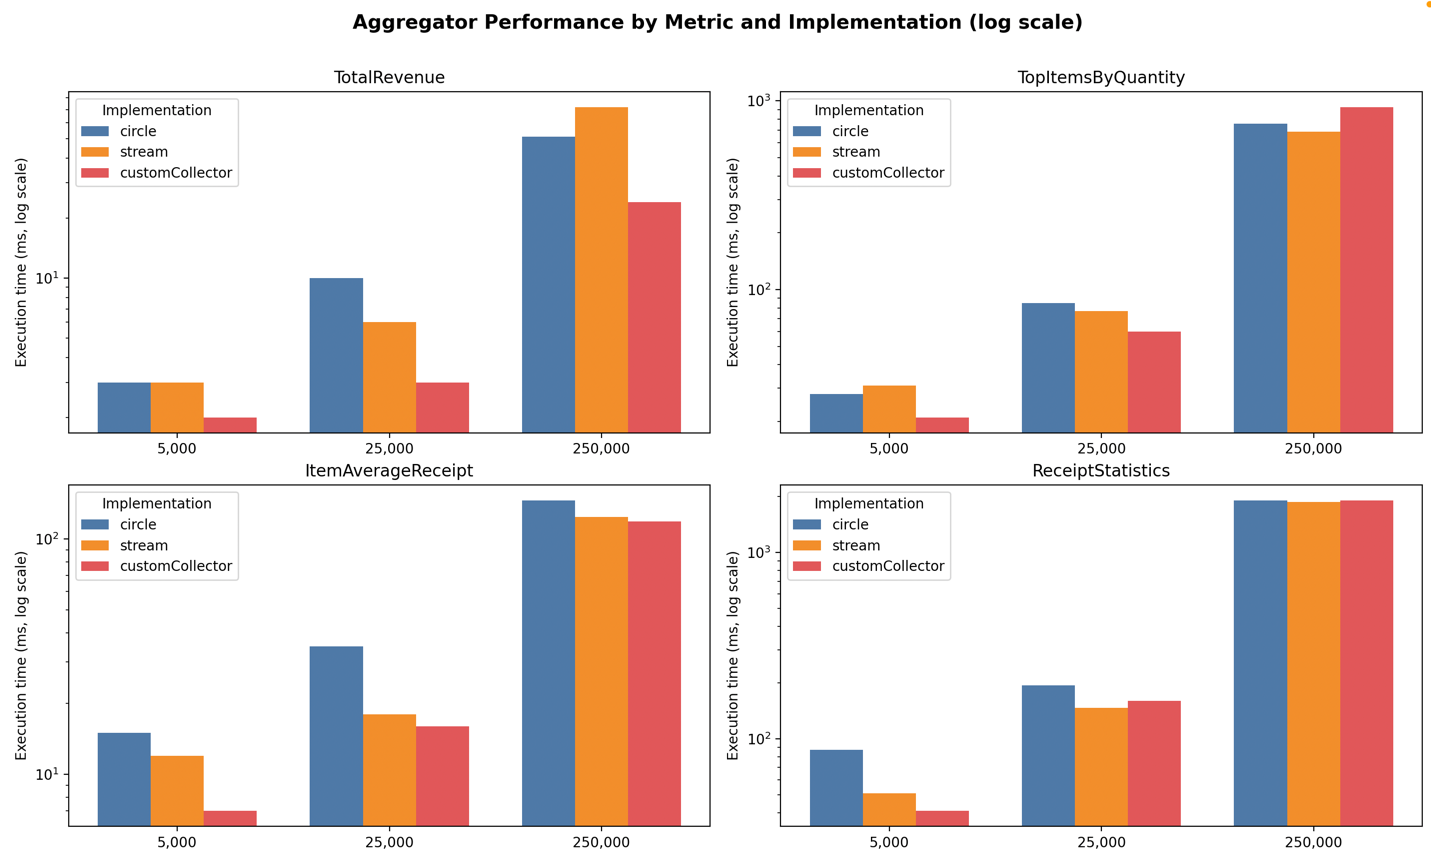
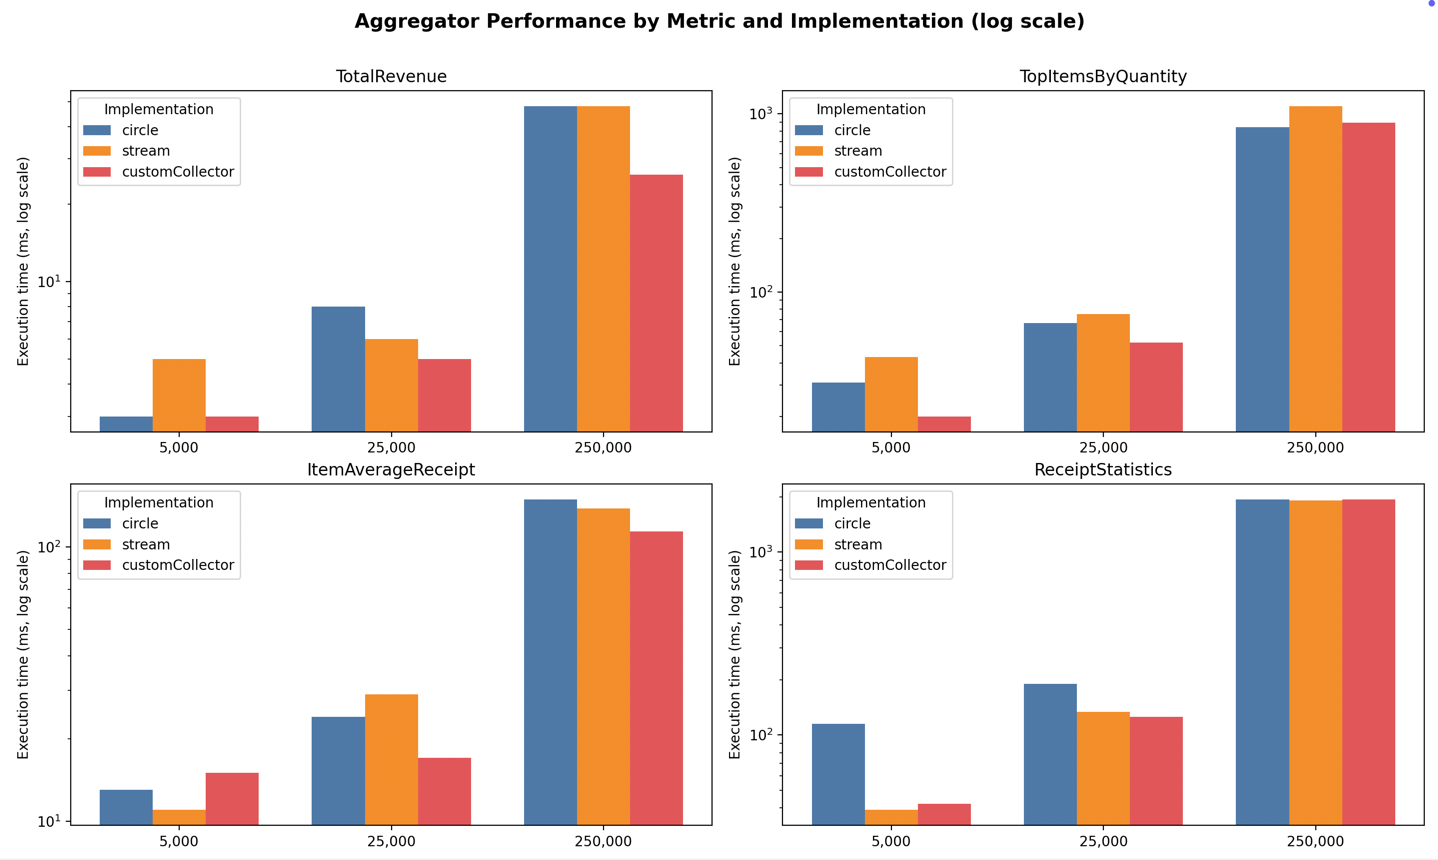
lab1 report

diff --git a/lab1/report/graph/graph.py b/lab1/report/graph/graph.py
@@ -1,88 +1,91 @@
+import subprocess
+import json
 import pandas as pd
 import matplotlib.pyplot as plt
-import numpy as np
-import os
 
-def load_data(csv_path=None):
+
+def run_java_benchmark():
     """
-    Загружает данные из CSV или запрашивает ввод вручную.
+    Запускает Java-бенчмарк и читает benchmark_results.json.
     """
-    if csv_path and os.path.exists(csv_path):
-        df = pd.read_csv(csv_path)
-        print(f"✅ Загружено {len(df)} строк из '{csv_path}'")
-    else:
-        print("CSV не найден. Введите данные вручную (пример ниже):")
-        print("Dataset Receipts Iterative Stream Custom")
-        print("Пример: Simple 5000 45 62 59")
-        print("Введите пустую строку для завершения.")
+    # print("▶ Запуск Java-бенчмарка...")
+    # subprocess.run(["java", "-cp", "/Users/Shared/Alexander/Education/reactive-java/lab1/target/classes", "/Users/Shared/Alexander/Education/reactive-java/lab1/src/main/java/rj/lab1/AggregationBenchmark.java"], check=True)
+    # print("✅ Java-бенчмарк завершён.")
 
-        rows = []
-        while True:
-            line = input("> ").strip()
-            if not line:
-                break
-            parts = line.split()
-            if len(parts) != 5:
-                print("Ошибка: нужно 5 значений.")
-                continue
-            dataset, receipts, iterative, stream, custom = parts
-            rows.append({
-                "Dataset": dataset,
-                "Receipts": int(receipts),
-                "Iterative": float(iterative),
-                "Stream": float(stream),
-                "Custom": float(custom),
-            })
-        df = pd.DataFrame(rows)
-
-    return df
+    with open("benchmark_results.json", "r", encoding="utf-8") as f:
+        data = json.load(f)
+    return data
 
 
-def plot_benchmarks_bar(df, save=False):
+def plot_aggregator_performance(data):
     """
-    Строит столбчатые диаграммы для каждого типа набора (Simple / Complex)
-    с логарифмической шкалой по оси Y.
+    Строит графики по результатам benchmark_results.json.
     """
-    datasets = df["Dataset"].unique()
+    # Преобразуем словарь в формат DataFrame
+    metrics = ["TotalRevenue.circleAggregate", "TotalRevenue.streamAggregate", "TotalRevenue.customCollectorAggregate",
+               "TopItemsByQuantity.circle", "TopItemsByQuantity.stream", "TopItemsByQuantity.collector",
+               "ItemAverageReceipt.circle", "ItemAverageReceipt.stream", "ItemAverageReceipt.collector",
+               "ReceiptStatistics.circle", "ReceiptStatistics.stream", "ReceiptStatistics.collector"]
 
-    for ds in datasets:
-        subset = df[df["Dataset"] == ds].sort_values("Receipts")
+    df = pd.DataFrame({
+        "Metric": metrics,
+        "5000": [data[m][0] for m in metrics],
+        "25000": [data[m][1] for m in metrics],
+        "250000": [data[m][2] for m in metrics]
+    })
 
-        x = np.arange(len(subset))
-        width = 0.25
+    # Группы метрик
+    groups = {
+        "TotalRevenue": ["TotalRevenue.circleAggregate", "TotalRevenue.streamAggregate", "TotalRevenue.customCollectorAggregate"],
+        "TopItemsByQuantity": ["TopItemsByQuantity.circle", "TopItemsByQuantity.stream", "TopItemsByQuantity.collector"],
+        "ItemAverageReceipt": ["ItemAverageReceipt.circle", "ItemAverageReceipt.stream", "ItemAverageReceipt.collector"],
+        "ReceiptStatistics": ["ReceiptStatistics.circle", "ReceiptStatistics.stream", "ReceiptStatistics.collector"],
+    }
 
-        fig, ax = plt.subplots(figsize=(8, 5))
-        bars1 = ax.bar(x - width, subset["Iterative"], width, label="Iterative")
-        bars2 = ax.bar(x, subset["Stream"], width, label="Stream")
-        bars3 = ax.bar(x + width, subset["Custom"], width, label="Custom collector")
+    # Цвета реализаций
+    implementations = {
+        "circle": "#4e79a7",
+        "stream": "#f28e2b",
+        "customCollector": "#e15759",
+    }
 
-        ax.set_xlabel("Receipts count")
-        ax.set_ylabel("Time (ms, log scale)")
-        ax.set_title(f"Benchmark: {ds} dataset (logarithmic scale, lower is better)")
+    bar_width = 0.25
 
-        ax.set_xticks(x)
-        ax.set_xticklabels([f"{int(v):,}".replace(",", " ") for v in subset["Receipts"]])
+    # Построение графиков
+    fig, axes = plt.subplots(2, 2, figsize=(14, 10))
+    axes = axes.flatten()
 
-        ax.set_yscale("log")  # ← вот ключевая строка!
-        ax.legend()
-        ax.grid(axis="y", linestyle="--", alpha=0.6, which="both")
+    for idx, (group_name, group_metrics) in enumerate(groups.items()):
+        sub_df = df[df["Metric"].isin(group_metrics)]
+        sub_df["Implementation"] = sub_df["Metric"].apply(
+            lambda x: "circle" if "circle" in x
+            else "stream" if "stream" in x
+            else "customCollector"
+        )
 
-        plt.tight_layout()
+        x = range(3)  # 3 размера: 5000, 25000, 250000
 
-        if save:
-            filename = f"{ds.lower()}_bar_log.png"
-            plt.savefig(filename, dpi=150)
-            print(f"💾 Сохранено: {filename}")
+        for i, impl in enumerate(["circle", "stream", "customCollector"]):
+            impl_vals = sub_df[sub_df["Implementation"] == impl][["5000", "25000", "250000"]].values.flatten()
+            axes[idx].bar([xj + (i - 1) * bar_width for xj in x],
+                          impl_vals,
+                          width=bar_width,
+                          color=implementations[impl],
+                          label=impl)
 
-        plt.show()
+        axes[idx].set_xticks(x)
+        axes[idx].set_xticklabels(["5,000", "25,000", "250,000"])
+        axes[idx].set_yscale("log")
+        axes[idx].set_title(group_name)
+        axes[idx].set_ylabel("Execution time (ms, log scale)")
+        axes[idx].legend(title="Implementation")
 
-
-def main():
-    csv_path = input("Введите путь к CSV (или Enter для ручного ввода): ").strip() or None
-    df = load_data(csv_path)
-    save_choice = input("Сохранить графики в PNG? (y/n): ").strip().lower().startswith("y")
-    plot_benchmarks_bar(df, save=save_choice)
+    plt.suptitle("Aggregator Performance by Metric and Implementation (log scale)",
+                 fontsize=14, fontweight="bold")
+    plt.tight_layout(rect=[0, 0, 1, 0.96])
+    plt.show()
 
 
 if __name__ == "__main__":
-    main()
+    data = run_java_benchmark()
+    plot_aggregator_performance(data)

diff --git a/lab1/src/main/java/rj/lab1/AggregationBenchmark.java b/lab1/src/main/java/rj/lab1/AggregationBenchmark.java
@@ -1,5 +1,7 @@
 package rj.lab1;
 
+import com.google.gson.Gson;
+import lombok.SneakyThrows;
 import rj.lab1.generators.SimpleReceiptGenerator;
 import rj.lab1.model.Receipt;
 import rj.lab1.statistics.aggregators.complex.ReceiptStatisticsIterateCircleAggregator;
@@ -11,20 +13,32 @@ import rj.lab1.statistics.aggregators.item_average_receipt.ItemAverageStreamCust
 import rj.lab1.statistics.aggregators.top_items_by_quantity.TopItemsByQuantityAggregator;
 import rj.lab1.statistics.aggregators.total_revenue.TotalRevenueAggregators;
 
+import java.io.FileWriter;
 import java.time.Duration;
 import java.time.Instant;
-import java.util.List;
+import java.util.*;
 import java.util.function.Function;
 
 public class AggregationBenchmark {
+
+    private static final Map<String, List<Long>> results = new LinkedHashMap<>();
+    private static final List<String> metrics = Arrays.asList(
+            "TotalRevenue.circleAggregate", "TotalRevenue.streamAggregate", "TotalRevenue.customCollectorAggregate",
+            "TopItemsByQuantity.circle", "TopItemsByQuantity.stream", "TopItemsByQuantity.collector",
+            "ItemAverageReceipt.circle", "ItemAverageReceipt.stream", "ItemAverageReceipt.collector",
+            "ReceiptStatistics.circle", "ReceiptStatistics.stream", "ReceiptStatistics.collector"
+    );
 
     private static void benchmark(String label, Function<List<Receipt>, ?> aggregator, List<Receipt> receipts) {
         Instant start = Instant.now();
         aggregator.apply(receipts);
         Instant end = Instant.now();
-        System.out.printf("%-40s -> %6d ms%n", label, Duration.between(start, end).toMillis());
+        long elapsed = Duration.between(start, end).toMillis();
+        System.out.printf("%-40s -> %6d ms%n", label, elapsed);
+        results.computeIfAbsent(label, k -> new ArrayList<>()).add(elapsed);
     }
 
+    @SneakyThrows
     public static void main(String[] args) {
         int[] sizes = {5_000, 25_000, 250_000};
 
@@ -56,6 +70,11 @@ public class AggregationBenchmark {
             benchmark("ReceiptStatistics.stream", ReceiptStatisticsStreamAggregator::aggregate, receipts);
             benchmark("ReceiptStatistics.collector", ReceiptStatisticsStreamCustomAggregator::aggregate, receipts);
         }
+
+        Gson gson = new Gson();
+        try (FileWriter writer = new FileWriter("benchmark_results.json")) {
+            gson.toJson(results, writer);
+        }
+        System.out.println("Results saved to benchmark_results.json");
     }
 }
-

diff --git a/lab1/report/report.md b/lab1/report/report.md
@@ -49,21 +49,136 @@ ReceiptStatistics{
   revenueByMonth={1=481953.16980766784, 2=419957.0062774844, 3=472529.66578268516, 4=440363.7413206926, 5=484481.253604041, 6=461693.9837572668, 7=511600.55908076145, 8=489061.4226956091, 9=450754.84336234484, 10=520588.45824083895, 11=483213.59837752813, 12=493859.7980281894}
 }
 
-──────────────────────────────────────────────────────────────────────────────
-Receipts     │ Iterative          │ Stream             │ Custom collector
-──────────────────────────────────────────────────────────────────────────────
-       5 000 │ 155 ms             │ 204 ms             │ 70 ms ★
-      50 000 │ 698 ms             │ 850 ms             │ 556 ms ★
-     250 000 │ 3,523 s ★          │ 4,836 s            │ 3,721 s
+
+===== Benchmark for 5000 receipts =====
+TotalRevenue.circleAggregate             ->      3 ms
+TotalRevenue.streamAggregate             ->      5 ms
+TotalRevenue.customCollectorAggregate    ->      3 ms
+TopItemsByQuantity.circle                ->     31 ms
+TopItemsByQuantity.stream                ->     43 ms
+TopItemsByQuantity.collector             ->     20 ms
+ItemAverageReceipt.circle                ->     13 ms
+ItemAverageReceipt.stream                ->     11 ms
+ItemAverageReceipt.collector             ->     15 ms
+ReceiptStatistics.circle                 ->    115 ms
+ReceiptStatistics.stream                 ->     39 ms
+ReceiptStatistics.collector              ->     42 ms
+
+===== Benchmark for 25000 receipts =====
+TotalRevenue.circleAggregate             ->      8 ms
+TotalRevenue.streamAggregate             ->      6 ms
+TotalRevenue.customCollectorAggregate    ->      5 ms
+TopItemsByQuantity.circle                ->     67 ms
+TopItemsByQuantity.stream                ->     75 ms
+TopItemsByQuantity.collector             ->     52 ms
+ItemAverageReceipt.circle                ->     24 ms
+ItemAverageReceipt.stream                ->     29 ms
+ItemAverageReceipt.collector             ->     17 ms
+ReceiptStatistics.circle                 ->    190 ms
+ReceiptStatistics.stream                 ->    134 ms
+ReceiptStatistics.collector              ->    126 ms
+
+===== Benchmark for 250000 receipts =====
+TotalRevenue.circleAggregate             ->     48 ms
+TotalRevenue.streamAggregate             ->     48 ms
+TotalRevenue.customCollectorAggregate    ->     26 ms
+TopItemsByQuantity.circle                ->    844 ms
+TopItemsByQuantity.stream                ->   1107 ms
+TopItemsByQuantity.collector             ->    894 ms
+ItemAverageReceipt.circle                ->    149 ms
+ItemAverageReceipt.stream                ->    138 ms
+ItemAverageReceipt.collector             ->    114 ms
+ReceiptStatistics.circle                 ->   1943 ms
+ReceiptStatistics.stream                 ->   1920 ms
+ReceiptStatistics.collector              ->   1942 ms
+
 ```
 
 ### График сранения результатов:
 
-![graph](graph/simple_bar_log.png)
+![graph](graph/result.png)
+
+
+### Обьяснение результатов
+
+## 1. TotalRevenue (просто сумма всех продаж)
+
+| Реализация                 | 5k   | 25k  | 250k      | Вывод                             |
+| -------------------------- | ---- | ---- | --------- | --------------------------------- |
+| `circleAggregate`          | 3 ms | 8 ms | 48 ms     | очень линейный рост               |
+| `streamAggregate`          | 5 ms | 6 ms | 48 ms     | сопоставимо, чуть больше оверхеда |
+| `customCollectorAggregate` | 3 ms | 5 ms | **26 ms** | немного быстрее на больших данных |
+
+ **Вывод:**
+
+* Все три версии ведут себя одинаково при малых объёмах.
+* При больших (250k) данных **кастомный коллектор оказался самым быстрым** — потому что он минимизирует создание временных объектов.
+* `Stream` вариант имеет небольшой фиксированный оверхед из-за потоковой модели, но масштабируется линейно.
+
+---
+
+## 2. TopItemsByQuantity (агрегация и сортировка по количеству и выручке)
+
+| Реализация  | 5k        | 25k       | 250k       | Вывод              |
+| ----------- | --------- | --------- | ---------- | ------------------ |
+| `circle`    | 31 ms     | 67 ms     | 844 ms     | стабильный рост    |
+| `stream`    | 43 ms     | 75 ms     | 1107 ms    | ощутимо медленнее  |
+| `collector` | **20 ms** | **52 ms** | **894 ms** | оптимальный баланс |
+
+**Вывод:**
+
+* Все реализации растут примерно линейно с размером.
+* **Stream** реализация — самая медленная, особенно на больших данных (из-за `Collectors.reducing()` и `Map`-мерджей).
+* **Custom collector** оказался **лучшим**: он избавлен от лишних промежуточных структур и inline-композиций, поэтому быстрее.
+* **Circle (for-loop)** стабилен, но проигрывает кастомному коллектору из-за ручного управления `Map` и потоковой сортировки.
+
+---
+
+## 3. ItemAverageReceipt (фильтрация и группировка по товарам, встречающимся ≥2 раза)
+
+| Реализация  | 5k    | 25k   | 250k       | Вывод                      |
+| ----------- | ----- | ----- | ---------- | -------------------------- |
+| `circle`    | 13 ms | 24 ms | 149 ms     | быстро                     |
+| `stream`    | 11 ms | 29 ms | 138 ms     | стабильно, немного быстрее |
+| `collector` | 15 ms | 17 ms | **114 ms** | лучше на больших данных    |
+
+ **Вывод:**
+
+* Разница между реализациями небольшая — фильтрация и группировка доминируют по времени.
+* При больших данных кастомный коллектор вновь выигрывает (~20% быстрее).
+* `Stream` и `for-loop` ведут себя ожидаемо, без неожиданных скачков.
+
+---
+
+## 4. ReceiptStatistics (метрика, объединяющая всё)
+
+| Реализация  | 5k     | 25k    | 250k    | Вывод                              |
+| ----------- | ------ | ------ | ------- | ---------------------------------- |
+| `circle`    | 115 ms | 190 ms | 1943 ms | масштабируется линейно             |
+| `stream`    | 39 ms  | 134 ms | 1920 ms | лучше на малых данных              |
+| `collector` | 42 ms  | 126 ms | 1942 ms | идентично stream на больших данных |
+
+ **Вывод:**
+
+* На малых объёмах **stream и collector** в 2–3 раза быстрее (потому что `circle` делает больше промежуточных обходов и структур).
+* На больших объёмах все три выравниваются (~2 секунды), что говорит о **доминировании общей сложности алгоритма**, а не конкретной реализации.
+
+---
+
+##  Общие закономерности
+
+| Наблюдение                                   | Объяснение                                                                                             |
+|----------------------------------------------|--------------------------------------------------------------------------------------------------------|
+| **Все методы растут линейно**                | Ожидаемо: сложность O(N) по числу чеков или элементов                                                  |
+| **Stream медленнее на мелких данных**        | Из-за внутреннего оверхеда (лямбды, итераторы, промежуточные коллекции)                                |
+| **Custom Collector часто выигрывает**       | Потому что инкапсулирует оптимизированную мутабельную логику и не создаёт лишних промежуточных структур |
+| **Circle (for-loop) стабилен и предсказуем** | Простой и последовательный                                                                             |
+| **На больших данных разница сглаживается** | Основное время уходит на сортировки и аллокации, не на API-оверлей                                     |
+
 
 Вывод: В ходе выполнения лабораторной работы было выявлено, что использование собственного коллектора (Collector) 
 для агрегирования данных из потоков (Stream API) обеспечивает значительно более высокую производительность по сравнению 
-с ручной обработкой элементов с помощью методов forEach, map или reduce.
+с обработкой элементов с помощью методов forEach, map или reduce.
 Это объясняется тем, что кастомный коллектор:
 - выполняет вычисления в один проход без создания промежуточных коллекций и объектов;
 - минимизирует нагрузку на сборщик мусора;
